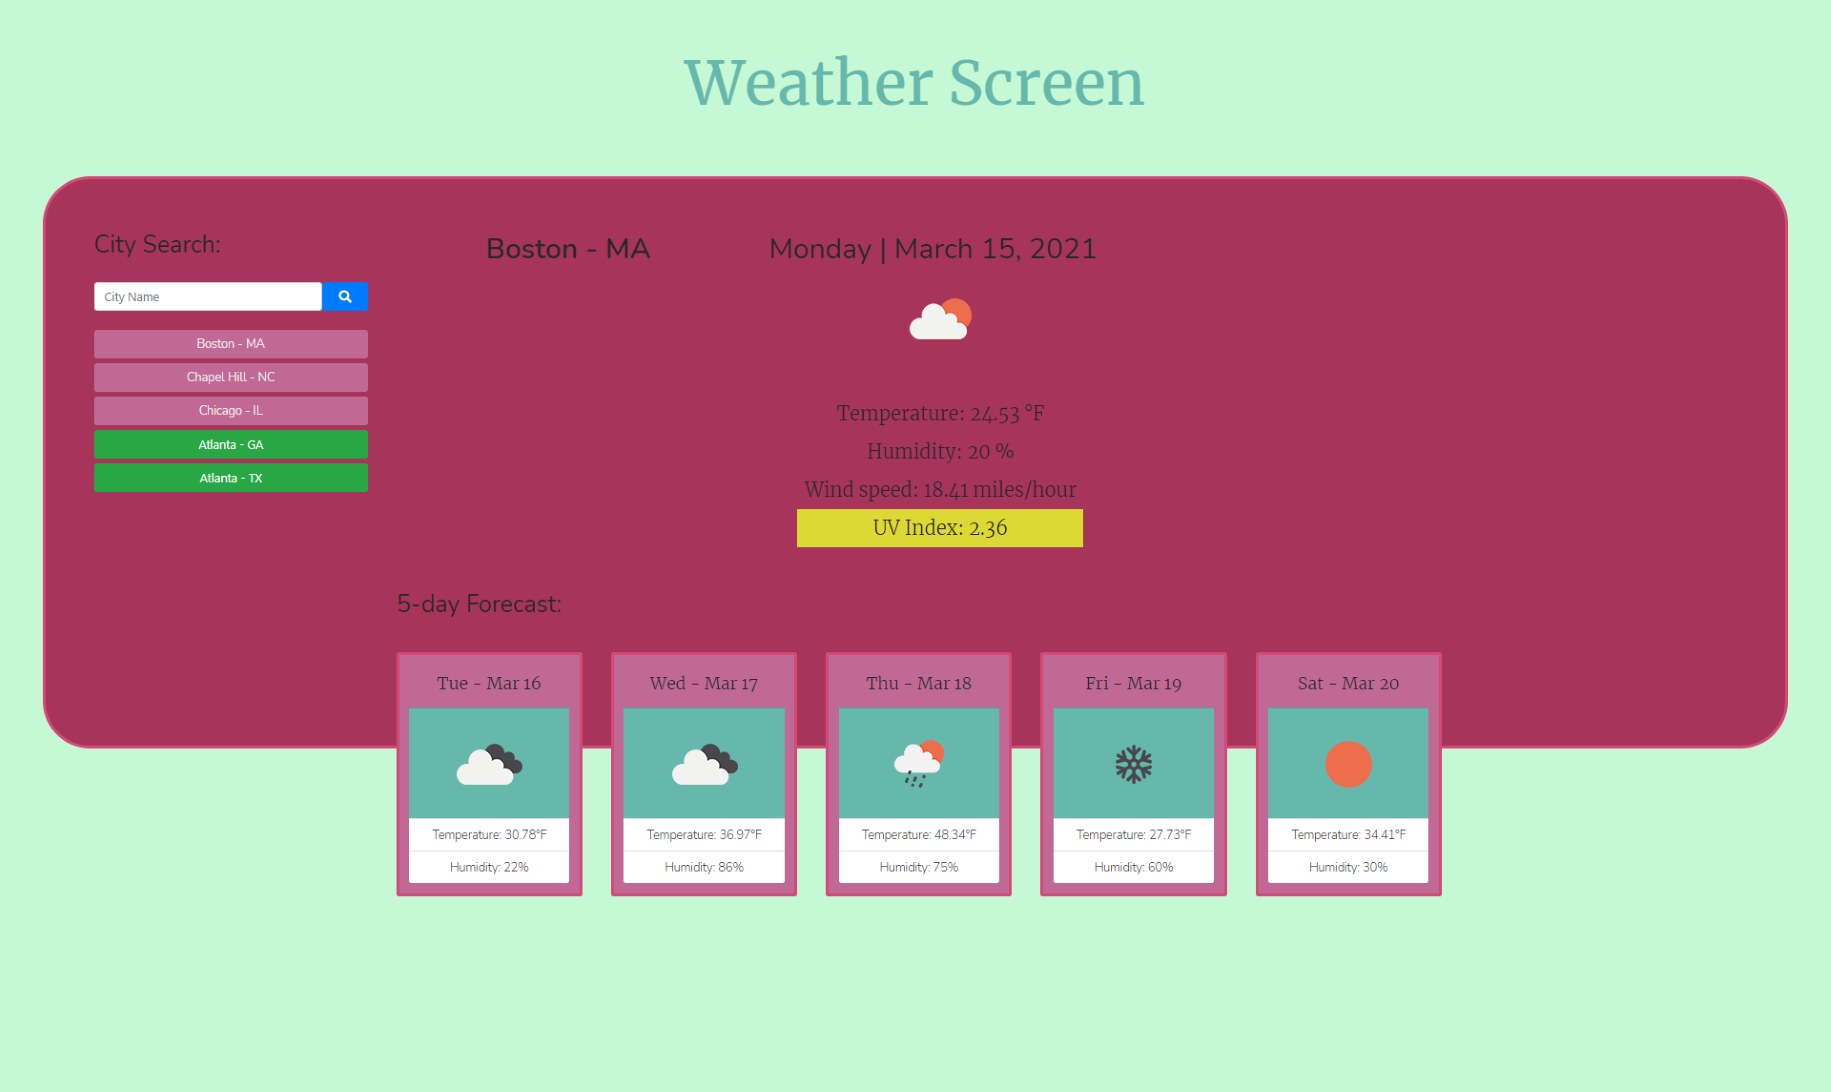
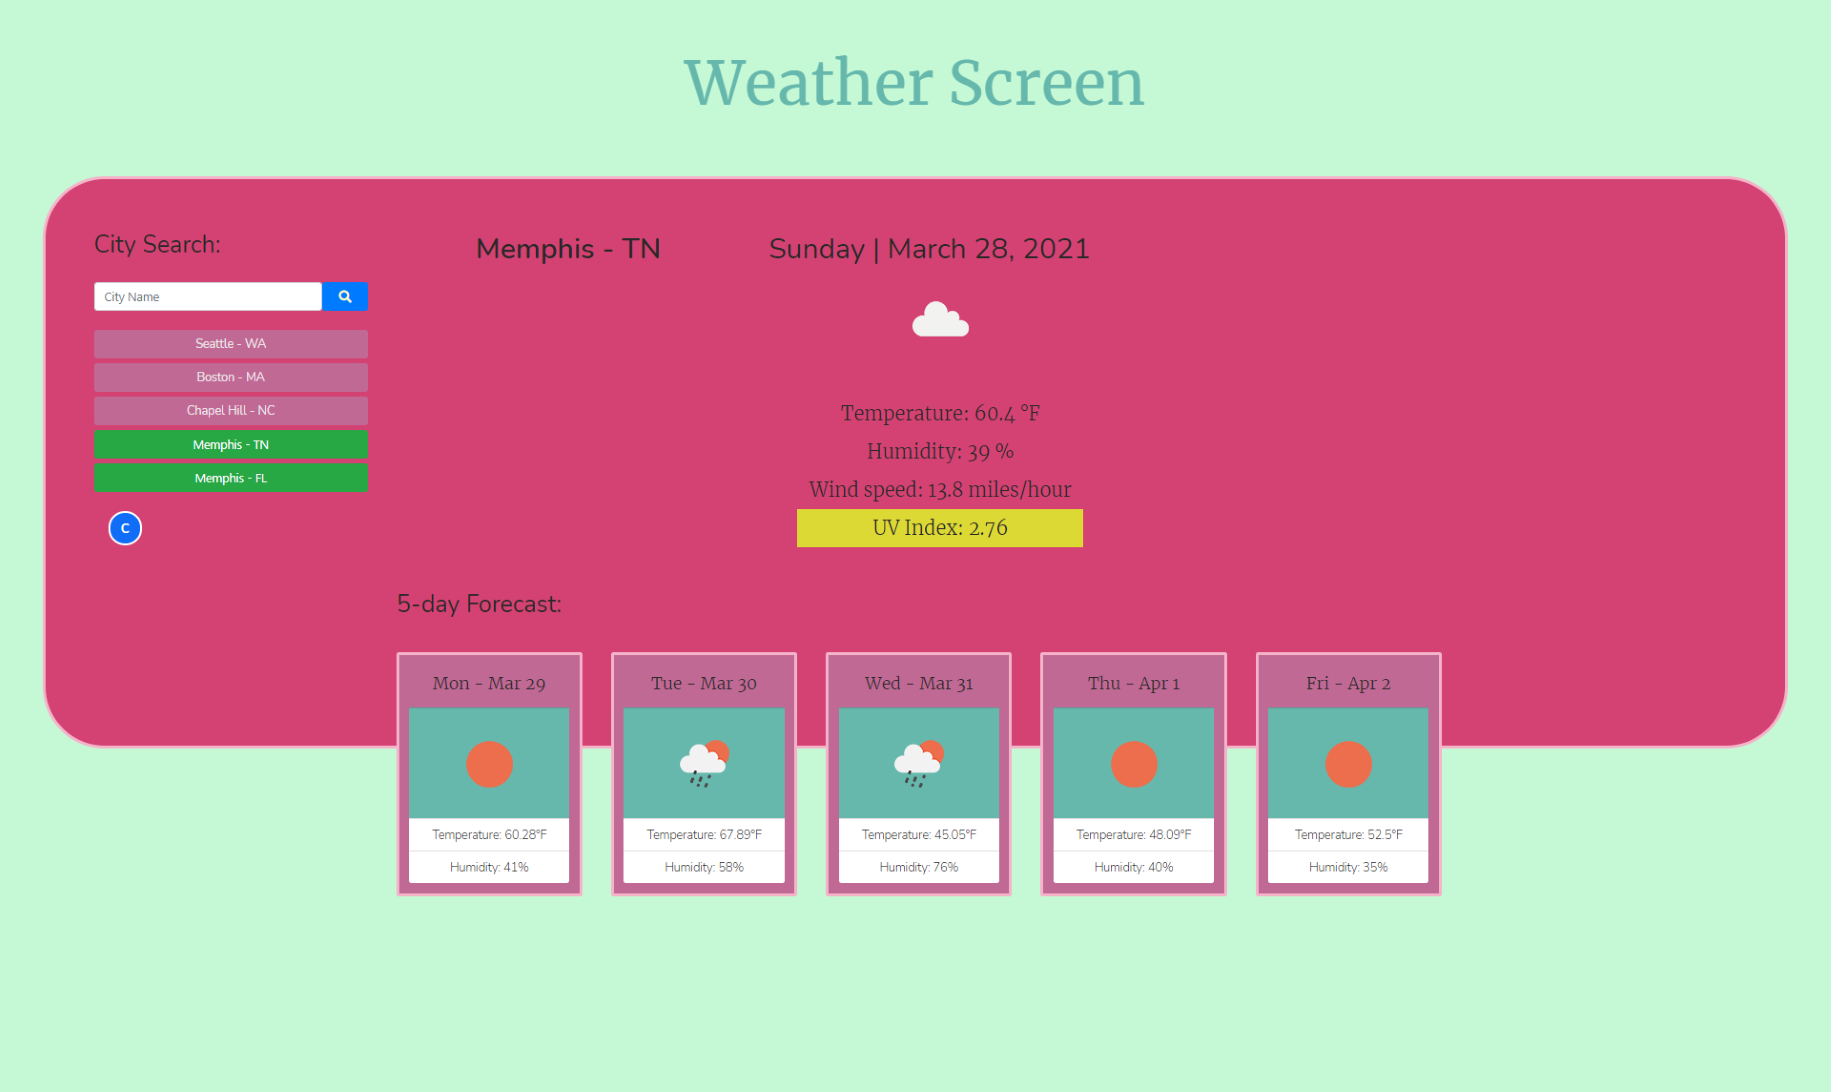
clear botton added

diff --git a/assets/script-geridon.js b/assets/script-geridon.js
@@ -7,6 +7,9 @@ var searchInputEl = document.querySelector("#search-input");
 var activeCityNameEl = document.querySelector("#active-city");
 var activeCityIconEl = document.querySelector("#active-city-icon");
 var cardContainerEl = document.querySelector("#card-container");
+// var cardArray = document.getElementsByClassName("card");
+// console.log(cardArray);
+// var x .splice(5, 1)?????;
 
             // GETTING DATA FROM LOCAL STORAGE
 
@@ -20,7 +23,7 @@ function getStoredCities(){
       var cityList = document.querySelector("#result-log");
       var storedBtn = document.createElement("button");
       
-      storedBtn.classList.add("btn", "city-buttons", "btn-lg", "btn-block");
+      storedBtn.classList.add("btn", "btn-secondary", "btn-lg", "btn-block");
       storedBtn.textContent = storedCity.name + " - " + storedCity.state;
       cityList.appendChild(storedBtn);
 
@@ -28,15 +31,6 @@ function getStoredCities(){
       storedBtn.setAttribute("lat", storedCity.lat);
       storedBtn.setAttribute("lon", storedCity.lon);
       
-      // RESETTING THE LOCAL STORAGE
-      var resetBtn = document.querySelector("#reset");
-      resetBtn.classList.add("visible");
-      resetBtn.addEventListener("click", function(event){
-      event.preventDefault();  
-      window.localStorage.clear();
-      document.location.reload();
-      })
-
       storedBtn.addEventListener("click", function(event){
 
         cardContainerEl.innerHTML = "";
@@ -52,7 +46,6 @@ function getStoredCities(){
     }
 }
 getStoredCities();
-
 
 function formSubmitHandler(event) {
     event.preventDefault();
@@ -79,10 +72,10 @@ searchFormEl.addEventListener('submit', formSubmitHandler);
 // "http://api.openweathermap.org/geo/1.0/direct?q=chapel+hill&limit=3&appid=26361e188cd235438e3f1a2b81fff3d0"
 
 function searchGeocode(cityName) {
-    var geocodeUrl = "https://api.openweathermap.org/geo/1.0/direct?&appid=26361e188cd235438e3f1a2b81fff3d0";
+    var geocodeUrl = "http://api.openweathermap.org/geo/1.0/direct?&appid=26361e188cd235438e3f1a2b81fff3d0";
   
     if (cityName) {
-      geocodeUrl = "https://api.openweathermap.org/geo/1.0/direct?q=" + cityName + "&limit=2&appid=26361e188cd235438e3f1a2b81fff3d0";
+      geocodeUrl = "http://api.openweathermap.org/geo/1.0/direct?q=" + cityName + "&limit=2&appid=26361e188cd235438e3f1a2b81fff3d0";
     }
     
     console.log(geocodeUrl);
@@ -102,7 +95,8 @@ function searchGeocode(cityName) {
         if (!geocodeResult.length) {
             alert("No results found!");
         } else {
-              for (var i = 0; i < geocodeResult.length; i++) {
+            // resultContentEl.textContent = '';
+            for (var i = 0; i < geocodeResult.length; i++) {
               printCityNameResults(geocodeResult[i]);
             }
         }
@@ -154,10 +148,10 @@ function printCityNameResults(resultObj) {
 function searchOneCall(lat, lon) {
     console.log(lat);
     console.log(lon);
-    var oneCallUrl = "https://api.openweathermap.org/data/2.5/onecall?&appid=26361e188cd235438e3f1a2b81fff3d0";
+    var oneCallUrl = "http://api.openweathermap.org/data/2.5/onecall?&appid=26361e188cd235438e3f1a2b81fff3d0";
   
     if (lat && lon) {
-      oneCallUrl = "https://api.openweathermap.org/data/2.5/onecall?lat=" + lat + "&lon=" + lon + "&units=imperial&exclude=minutely,hourly&appid=26361e188cd235438e3f1a2b81fff3d0";
+      oneCallUrl = "http://api.openweathermap.org/data/2.5/onecall?lat=" + lat + "&lon=" + lon + "&units=imperial&exclude=minutely,hourly&appid=26361e188cd235438e3f1a2b81fff3d0";
     }
     console.log(oneCallUrl);
     
@@ -182,48 +176,27 @@ function searchOneCall(lat, lon) {
 function printForecastResults(resultObj) {
     console.log(resultObj);
 
-    var heading = document.getElementById("subtitle");
+    // resultBtn.classList.add("btn", "btn-success", "btn-lg", "btn-block");
     var temp = document.getElementById("temp");
     var humidity = document.getElementById("humidity");
     var windSpeed = document.getElementById("wind-speed");
     var uvIndex = document.getElementById("uv-index");
-    var iconCurrent = document.getElementById("active-city-icon");
 
-    var imageIconCurrent = document.createElement("img");
-    var codeIconCurrent = resultObj.current.weather[0].icon;
-    console.log(codeIconCurrent);
-    imageIconCurrent.src = "https://openweathermap.org/img/wn/" + codeIconCurrent + "@2x.png";
-    iconCurrent.appendChild(imageIconCurrent);
-
-    heading.textContent = "5-day Forecast:";
-    temp.textContent = "Temperature: " + resultObj.current.temp + " °F";
-    humidity.textContent = "Humidity: " + resultObj.current.humidity + " %";
-    windSpeed.textContent = "Wind speed: " + resultObj.current.wind_speed + " miles/hour";
+    temp.textContent = "Temperature: " + resultObj.current.temp + "°F";
+    humidity.textContent = "Humidity: " + resultObj.current.humidity + "%";
+    windSpeed.textContent = "Wind speed: " + resultObj.current.wind_speed + "miles/hour";
     uvIndex.textContent = "UV Index: " + resultObj.current.uvi;
     
-    function uvLevelColor(){
-        var uviLevel = resultObj.current.uvi;
-        uvIndex.classList.remove("green", "yellow", "orange", "red") 
-        if (uviLevel<=2) {uvIndex.classList.add("green")
-        } else if (uviLevel>2&&uviLevel<=5) {uvIndex.classList.add("yellow")
-        } else if (uviLevel>5&&uviLevel<=7) {uvIndex.classList.add("orange")
-        } else if (uviLevel>7&&uviLevel<=10) {uvIndex.classList.add("red")
-        };
-    }      
-    uvLevelColor();
-
 
     for (var i = 1; i < 6; i++) {
         var dailyForecast = resultObj.daily[i];
-        console.log(dailyForecast);
         function printDailyForecast(){
             var forecastCard = document.createElement("div");
             forecastCard.classList.add("card", "col-2");
             var cardTitle = document.createElement("h5");
             var rawDate = moment.unix(dailyForecast.dt);
-            var forecastDate = moment(rawDate).format("ddd[ - ]MMM D");
-            // moment().format("dddd [|] LL");
-            
+            var forecastDate = moment(rawDate).format("dddd [|] LL");
+
             cardTitle.textContent = forecastDate;
             forecastCard.appendChild(cardTitle);
             
@@ -231,34 +204,55 @@ function printForecastResults(resultObj) {
             cardUl.classList.add("list-group", "list-group-flush");
 
             forecastCard.appendChild(cardUl);
+            
+// cardArray = ["icon", "temp", "humidity"] 
+            // for (var j = 0; j < cardArray.length; j++) {
+                
+
+            for (var j = 0; j < 3; j++) {
+                var cardLi = document.createElement("li");
+                console.log(cardLi);
+                cardLi.dataset.number = [j];
+                cardLi.classList.add("list-group-item");
+                cardUl.appendChild(cardLi);
+            }    
+            
+// var w = document.querySelectorAll('[data-number="1"]');
+            // console.log(w);
+            // var ww = Array.from(w);
+            // console.log(ww);
+            // for (var k = 0; k < ww.length; k++) {
+            //     ww[k].textContent = "Temperature: " + dailyForecast.temp.day + "°F";
+            // };
+
+
+            var x = document.querySelectorAll('[data-number="0"]');
+            console.log(x);
+            x.innerHTML = "hello"
+            
+            var y = document.querySelectorAll('[data-number="1"]');
+            y.innerHTML = "Temperature: " + dailyForecast.temp.day + "°F";
+            
+            var z = document.querySelectorAll('[data-number="2"]');
+            z.innerHTML = "Humidity: " + dailyForecast.humidity + "%";
+            
             cardContainerEl.appendChild(forecastCard);
-            
-            var cardLiIcon = document.createElement("li");
-            console.log(cardLiIcon);
-            cardLiIcon.classList.add("list-group-item", "icon-img");
-            cardUl.appendChild(cardLiIcon);
-            
-            var imageIcon = document.createElement("img");
-            var codeIcon = dailyForecast.weather[0].icon;
-            console.log(codeIcon);
-            imageIcon.src = "https://openweathermap.org/img/wn/" + codeIcon + "@2x.png";
-            cardLiIcon.appendChild(imageIcon);
-
-
-            var cardLiTemp = document.createElement("li");
-            console.log(cardLiTemp);
-            cardLiTemp.classList.add("list-group-item");
-            cardUl.appendChild(cardLiTemp);
-            cardLiTemp.textContent = "Temperature: " + dailyForecast.temp.day + "°F";
-
-            var cardLiHumid = document.createElement("li");
-            console.log(cardLiHumid);
-            cardLiHumid.classList.add("list-group-item");
-            cardUl.appendChild(cardLiHumid);
-            cardLiHumid.textContent = "Humidity: " + dailyForecast.humidity + "%";
-       
         };
         printDailyForecast()
     }
 
-}
+//     var cityList = document.querySelector("#result-log");
+//   var resultBtn = document.createElement("button");
+   
+//   resultBtn.classList.add("btn", "btn-success", "btn-lg", "btn-block");
+//   resultBtn.value = resultObj.name;
+//   resultBtn.textContent = resultObj.name + " - " + resultObj.state;
+//   cityList.appendChild(resultBtn);
+  
+//   resultBtn.setAttribute("type", "button");
+//   resultBtn.setAttribute("lat", resultObj.lat);
+//   resultBtn.setAttribute("lon", resultObj.lon);
+
+
+
+  }

diff --git a/assets/style.css b/assets/style.css
@@ -5,7 +5,7 @@
     --buttonborder: rgba(170, 50, 220, .8);
     --lightbutton: rgb(192, 105, 148);
     --lightcardbg: rgb(102, 184, 173);
-    --darkb: rgb(167, 52, 90);
+    --darkb: rgb(211, 66, 114);
     font-size: 62.5%;
 }
 
@@ -56,8 +56,8 @@ main{
 
 section {
   height: 60rem;
-  border: 0.35rem solid rgb(212, 73, 119);
-  border-radius: 5rem;
+  border: 0.35rem solid rgb(245, 179, 201);
+  border-radius: 6.5rem;
   padding: 5rem;
   margin-top: 5rem;
   background-color: var(--darkb);
@@ -116,18 +116,21 @@ label {
   text-align: center;
   justify-content: center;
   align-items: center;
-}
+  }
 
 .list-group-item {
+  
   font-family: "Nunito", sans-serif;
   font-weight: 300;
   font-size: 1.25rem;
 
 }
 .card{
+  /* animation: backOutDown;
+    animation-duration: 4s; */
   margin:1.5rem;
   padding: 1rem;
-  border: 0.35rem solid rgb(212, 73, 119);
+  border: 0.35rem solid rgb(245, 179, 201);
   text-align: center;
   background-color: var(--lightbutton);
 }
@@ -151,4 +154,25 @@ label {
 
 .fas {
   color : rgb(250, 246, 199);
+}
+
+.reset-button {
+  background-color:  rgb(16, 109, 248);
+  border: 0.2rem solid white;
+  border-radius: 50%;
+  color: white;
+  padding: 0.02rem 1.1rem 0.2rem 1.1rem;
+  text-align: center;
+  text-decoration: none;
+  font-size: 2rem;
+  margin-top: 2rem;
+  font-family: "Nunito", sans-serif;
+}
+
+.hidden {
+  visibility:hidden;
+}
+
+.visible {
+  visibility:visible;
 }

diff --git a/index.html b/index.html
@@ -25,6 +25,11 @@
                   
             <article class="col-2">
               
+
+
+
+              
+
               <form id="search-form">
                   <div class="row">
 
@@ -36,10 +41,20 @@
                   </div>  
               </form>
 
+
+
+
+
               <div id="result-log" class="row">
     <!-- city buttons are created here here                     -->    
               </div>
-                
+
+              <button
+              id="reset" type="submit" class="hidden reset-button">c</button> 
+            
+
+
+
             </article>
 
             <article class="col-10">
